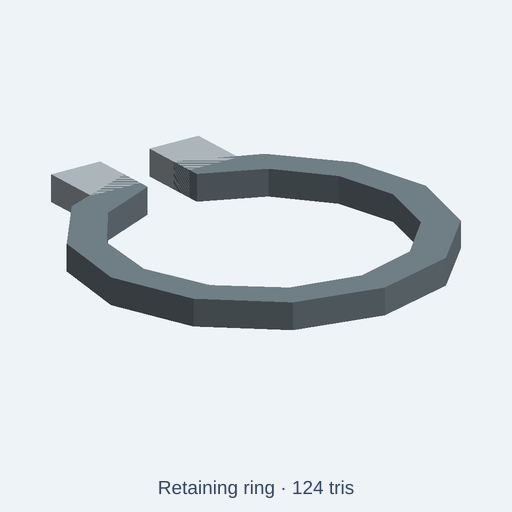
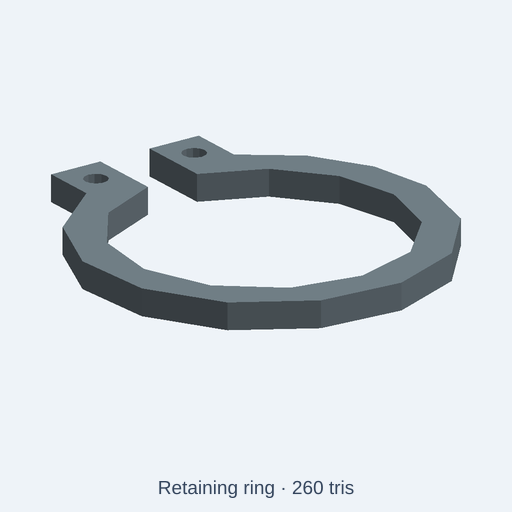
fix(catalog): connect retaining ring ears and drill plier holes (#1373)

diff --git a/tests/integration/catalog/retainingRingFidelity.test.ts b/tests/integration/catalog/retainingRingFidelity.test.ts
@@ -1,0 +1,109 @@
+// SPDX-License-Identifier: MIT
+// Count actual radial spokes and verify each joins the hub and rim.
+// Three centered diametral bars are six spokes, not three.
+import { beforeAll, describe, expect, it } from 'vitest';
+import { readFileSync } from 'node:fs';
+import { resolve } from 'node:path';
+import { NodeIO } from '@gltf-transform/core';
+import { initOcct } from '../../../src/kernel/backends/occt/occtBackend';
+import { buildCatalogAssetWithGlb } from '../../../src/agent/catalog/buildCatalog';
+import { runAndExport } from '../../../src/agent/script-runtime/export';
+
+type V = [number, number, number];
+type Tri = [V, V, V];
+const root = resolve(import.meta.dirname, '../../..');
+const sourcePath = 'catalog/kits/standard-components/retaining-ring.kcad.ts';
+const sub = (a: V, b: V): V => [a[0]-b[0], a[1]-b[1], a[2]-b[2]];
+const dot = (a: V, b: V) => a[0]*b[0]+a[1]*b[1]+a[2]*b[2];
+const cross = (a: V, b: V): V => [a[1]*b[2]-a[2]*b[1], a[2]*b[0]-a[0]*b[2], a[0]*b[1]-a[1]*b[0]];
+function rayHits(tris: Tri[], start: V, direction: V): boolean {
+  return tris.some(tri => {
+    const edge1=sub(tri[1],tri[0]), edge2=sub(tri[2],tri[0]);
+    const p=cross(direction,edge2), determinant=dot(edge1,p);
+    if(Math.abs(determinant)<1e-9)return false;
+    const t=sub(start,tri[0]), u=dot(t,p)/determinant, q=cross(t,edge1);
+    const v=dot(direction,q)/determinant, distance=dot(edge2,q)/determinant;
+    return u>=-1e-7&&v>=-1e-7&&u+v<=1+1e-7&&distance>1e-6&&distance<200;
+  });
+}
+async function readMeshes(glb: Uint8Array, scale: number): Promise<Map<string,Tri[]>> {
+  // Low-poly positions are authored millimetres before scene-axis conversion.
+  const doc=await new NodeIO().readBinary(glb), parts=new Map<string,Tri[]>();
+  for(const node of doc.getRoot().listNodes()) {
+    const mesh=node.getMesh(); if(!mesh)continue;
+    const tris:Tri[]=[];
+    for(const primitive of mesh.listPrimitives()) {
+      const pos=primitive.getAttribute('POSITION')!, indices=primitive.getIndices();
+      const count=indices?indices.getCount():pos.getCount();
+      for(let i=0;i<count;i+=3)tris.push([0,1,2].map(k=>
+        pos.getElement(indices?indices.getScalar(i+k):i+k,[]).map(v=>v/scale) as V
+      ) as Tri);
+    }
+    parts.set(node.getName(),tris);
+  }
+  return parts;
+}
+function components(tris: Tri[]): number {
+  const parent=new Map<string,string>();
+  const find=(key:string):string=>{const p=parent.get(key)!;if(p===key)return key;const r=find(p);parent.set(key,r);return r;};
+  for(const tri of tris) {
+    const keys=tri.map(v=>v.map(x=>x.toFixed(4)).join(','));
+    for(const key of keys)if(!parent.has(key))parent.set(key,key);
+    for(const key of keys.slice(1))parent.set(find(key),find(keys[0]));
+  }
+  return new Set([...parent.keys()].map(find)).size;
+}
+function faceHit(tris:Tri[], x:number, y:number):boolean {
+  return rayHits(tris,[x,y,-3],[0,0,1]);
+}
+function verify(parts:Map<string,Tri[]>) {
+  expect([...parts.keys()]).toEqual(['retaining-ring-body']);
+  const body=parts.get('retaining-ring-body')!;
+  expect(components(body),'retaining ring and its plier ears are one connected spring body').toBe(1);
+  // Both plier holes are actual voids through the full thickness.
+  for(const x of [-6,6]) {
+    expect(faceHit(body,x,20.5),`plier bore at X=${x}`).toBe(false);
+    for(const dx of [-2.1,2.1])expect(faceHit(body,x+dx,20.5),`material around plier bore at X=${x+dx}`).toBe(true);
+    expect(faceHit(body,x,23),`solid ear shoulder at X=${x}`).toBe(true);
+  }
+  // Open slit, intact back band and central shaft aperture.
+  expect(faceHit(body,0,19),'gap between ears remains open').toBe(false);
+  expect(faceHit(body,0,-18),'retaining arc remains solid').toBe(true);
+  expect(faceHit(body,0,0),'central shaft opening remains clear').toBe(false);
+  const bb=body.flat();const xs=bb.map(v=>v[0]),ys=bb.map(v=>v[1]),zs=bb.map(v=>v[2]);
+  expect(Math.max(...xs)-Math.min(...xs),'ring width').toBeGreaterThan(39);
+  expect(Math.max(...ys)-Math.min(...ys),'ring length incl ears').toBeGreaterThan(43);
+  expect(Math.min(...zs)).toBeCloseTo(0,4);
+  expect(Math.max(...zs)).toBeCloseTo(3,4);
+}
+beforeAll(async()=>{await initOcct();},30000);
+describe('retaining-ring integral ears and actual plier holes',()=>{
+ for(const [size,scale] of [['standard',1],['compact',0.75],['large',1.25]] as const) {
+  it(`${size}: one continuous ring, both plier holes through, clear gap`,async()=>{
+   const source=readFileSync(resolve(root,sourcePath),'utf8');
+   const built=await buildCatalogAssetWithGlb(root,sourcePath);
+   const code=source.replace("param('size', 'standard'",`param('size', '${size}'`);
+   const exported=size==='standard'?{bytes:built.glb,diagnostics:[]}:await runAndExport({
+    code,fileName:'retaining-ring.kcad.ts',scriptDir:resolve(root,'catalog/kits/standard-components'),format:'glb',
+    options:{format:'glb',style:'lowpoly',lowpoly:{maxTriangles:built.asset.triangleBudget}}
+   });
+   expect(exported.diagnostics.filter(d=>d.severity==='error')).toEqual([]);
+   verify(await readMeshes(exported.bytes,scale));
+   expect(built.asset.description).toMatch(/one connected spring body/i);
+   expect(built.asset.description).toMatch(/two integral plier ears with real through-holes/i);
+   expect(built.asset.description).toMatch(/not manufacturer-grade CAD/i);
+   expect(built.asset.stats.triangles).toBeLessThanOrEqual(built.asset.triangleBudget);
+   expect(built.asset.stats.minUpM).toBeCloseTo(0,6);
+  },60000);
+ }
+ it('negative control: original ring exports but has detached, undrilled ears',async()=>{
+  const source=readFileSync(resolve(root,'docs/quality/evidence/retaining-ring-20261113/original-source.kcad.ts'),'utf8');
+  const exported=await runAndExport({code:source,fileName:'original-ring.kcad.ts',scriptDir:resolve(root,'catalog/kits/standard-components'),format:'glb',options:{format:'glb',style:'lowpoly',lowpoly:{maxTriangles:300}}});
+  expect(exported.diagnostics.filter(d=>d.severity==='error')).toEqual([]);
+  const parts=await readMeshes(exported.bytes,1);
+  expect(parts.size).toBe(3);
+  expect(faceHit([...parts.values()].flat(),-6,20.5)).toBe(true);
+  expect(faceHit([...parts.values()].flat(),6,20.5)).toBe(true);
+  expect(()=>verify(parts)).toThrow();
+ },60000);
+});

diff --git a/catalog/kits/standard-components/retaining-ring.kcad.ts b/catalog/kits/standard-components/retaining-ring.kcad.ts
@@ -1,9 +1,9 @@
-// Distinctive geometry: Open retaining ring profile with two small installation ears
+// Connected open C-type retaining ring with real plier holes in both integral ears; illustrative only.
 meta({
   name: 'retaining-ring',
   license: 'CC0-1.0',
   title: 'Retaining ring',
-  description: 'Open retaining ring profile with two small installation ears Knobs: model size, stainless steel, spring steel.',
+  description: 'Illustrative CC0 C-type external retaining ring: one connected spring body, open slit and two integral plier ears with real through-holes. Not manufacturer-grade CAD: nominal groove fit, edge radii, spring properties, tolerances and DIN 471 compliance are not verified. Controls change only model size and whole-piece appearance color.',
   tags: ['retaining ring', 'circlip', 'shaft retainer', 'hardware'],
   kit: 'standard-components',
   category: 'attachment',
@@ -13,12 +13,11 @@ meta({
 });
 
 const size = param('size', 'standard', { choices: ['compact', 'standard', 'large'], label: 'Model size' });
-const stainless = param('stainless', '#b8c1c6', { label: 'Stainless steel' });
-const springSteel = param('springSteel', '#78868e', { label: 'Spring steel' });
+const springSteel = param('springSteel', '#78868e', { label: 'Metal appearance color' });
 presets({
-  dark: { stainless: '#7d8a91', springSteel: '#4c585e' },
-  brass: { stainless: '#b38b52', springSteel: '#75838a' },
-  weathered: { stainless: '#8b8275', springSteel: '#5b5550' }
+  dark: { springSteel: '#4c585e' },
+  brass: { springSteel: '#75838a' },
+  weathered: { springSteel: '#5b5550' }
 });
 
 const s = size.value === 'compact' ? 0.75 : size.value === 'large' ? 1.25 : 1;
@@ -26,7 +25,11 @@ const block = (x: number, y: number, z: number, w: number, d: number, h: number)
 const a = assembly('retaining-ring');
 let ring=cylinder(3*s,20*s,16).subtract(cylinder(5*s,16*s,16).translate(0,0,-s));
 ring=ring.subtract(block(-3*s,15*s,-s,6*s,10*s,5*s));
-a.part('ring',ring.color(springSteel));
-a.part('ear-left',block(-9*s,17*s,0,6*s,7*s,3*s).color(stainless));
-a.part('ear-right',block(3*s,17*s,0,6*s,7*s,3*s).color(stainless));
+// These integral ears are fused to the spring ring, not misleading loose assembly bodies.
+const leftEar = block(-9*s,17*s,0,6*s,7*s,3*s);
+const rightEar = block(3*s,17*s,0,6*s,7*s,3*s);
+ring = ring.union(leftEar, rightEar);
+// Genuine through-holes for plier tips, including 1 mm axial runout.
+for (const x of [-6, 6]) ring = ring.subtract(cylinder(5*s,1.3*s,8).translate(x*s,20.5*s,-s));
+a.part('retaining-ring-body', ring.color(springSteel));
 return a.model();

diff --git a/docs/quality/evidence/retaining-ring-20261113/original-source.kcad.ts b/docs/quality/evidence/retaining-ring-20261113/original-source.kcad.ts
@@ -1,0 +1,32 @@
+// Distinctive geometry: Open retaining ring profile with two small installation ears
+meta({
+  name: 'retaining-ring',
+  license: 'CC0-1.0',
+  title: 'Retaining ring',
+  description: 'Open retaining ring profile with two small installation ears Knobs: model size, stainless steel, spring steel.',
+  tags: ['retaining ring', 'circlip', 'shaft retainer', 'hardware'],
+  kit: 'standard-components',
+  category: 'attachment',
+  origin: 'base',
+  compat: ['mechanical', 'industrial', 'workshop', 'assembly'],
+  triangleBudget: 300,
+});
+
+const size = param('size', 'standard', { choices: ['compact', 'standard', 'large'], label: 'Model size' });
+const stainless = param('stainless', '#b8c1c6', { label: 'Stainless steel' });
+const springSteel = param('springSteel', '#78868e', { label: 'Spring steel' });
+presets({
+  dark: { stainless: '#7d8a91', springSteel: '#4c585e' },
+  brass: { stainless: '#b38b52', springSteel: '#75838a' },
+  weathered: { stainless: '#8b8275', springSteel: '#5b5550' }
+});
+
+const s = size.value === 'compact' ? 0.75 : size.value === 'large' ? 1.25 : 1;
+const block = (x: number, y: number, z: number, w: number, d: number, h: number) => box(w, d, h).translate(x, y, z);
+const a = assembly('retaining-ring');
+let ring=cylinder(3*s,20*s,16).subtract(cylinder(5*s,16*s,16).translate(0,0,-s));
+ring=ring.subtract(block(-3*s,15*s,-s,6*s,10*s,5*s));
+a.part('ring',ring.color(springSteel));
+a.part('ear-left',block(-9*s,17*s,0,6*s,7*s,3*s).color(stainless));
+a.part('ear-right',block(3*s,17*s,0,6*s,7*s,3*s).color(stainless));
+return a.model();

diff --git a/docs/quality/retaining-ring-2026-11-13.md b/docs/quality/retaining-ring-2026-11-13.md
@@ -1,0 +1,41 @@
+# Retaining ring: integral ears and through-holes
+
+November 13, 2026. This repairs the actual retaining-ring geometry of an **illustrative CC0 scene asset**. It does not certify a DIN 471 spring clip, fit into a manufacturer groove, spring force, fatigue, load, metal hardness or tolerances.
+
+## Before
+
+The original source creates an open C arc and two **separate, solid box-shaped ears** named `ear-left` and `ear-right`. Those ears have no plier holes. The old preview shows visually adjacent tabs but does not prove a one-piece spring ring. Three detached CAD bodies cannot represent the manufactured single-piece stamped clip claimed by the assembly title and the installation-ear description.
+
+## After
+
+The source fuses the C ring and two ears into **one connected solid**. It subtracts real **Ø2.6 mm** through-holes at the integral ear tips, with clearance beyond both faces. The open gap remains and the back retaining arc is intact. The nominal thickness remains 3 mm. The geometry remains intentionally polygonal (low-poly CC0, 260 triangles under the original 300-triangle budget).
+
+A one-piece clip has one meaningful metal appearance color. We retain `springSteel` and the `size` parameter with the three compact/standard/large choices. We remove the previous `stainless` *ear color* knob and its matching preset entries because after the Boolean union those color settings became inert. That parameter removal is explicit and intentional; saved appearance settings using `stainless` no longer affect this asset. Neither color selects an engineering steel grade.
+
+![Actual native before/after isometric/top/front geometry](evidence/retaining-ring-20261113/before-after.png)
+
+[Actual six-second top-view comparison](evidence/retaining-ring-20261113/native-comparison.mp4) illustrates the newly drilled tips. Both images are OCCT-to-GLB software renders, **not** a browser/WebGL or mechanical spring acceptance. The [unmodified original source](evidence/retaining-ring-20261113/original-source.kcad.ts) is retained as a failing negative control.
+
+## Tests and limits
+
+`tests/integration/catalog/retainingRingFidelity.test.ts` checks all three scaling presets, then independently re-evaluates the exact original source. Its mesh ray tests verify:
+
+- Exactly **one connected spring body**, not three detached pieces.
+- Both nominal hole centers are empty through thickness; adjacent ear material is present as positive controls.
+- The open slit is still clear, the rear retaining arc remains solid and the shaft interior is open.
+- Positive bounds around the ring and ears and nominal **3 mm** axial thickness.
+- Original source exports normally but fails the expected one-body/two-hole contract.
+
+**8/8 local focused tests pass:** four geometry cases (three presets plus negative control), four existing asset-module integration cases. Targeted ESLint passes. The 2,402 authored catalog index entries retain matching source hashes. Normal exact-head CI including `catalog-index` remains required before merge. The downstream published source and preview must be rechecked after marketing deployment; local PNG or source evaluation does not prove production acceptance.
+
+```sh
+NODE_OPTIONS=--max-old-space-size=2048 node node_modules/vitest/vitest.mjs run \
+  tests/integration/catalog/retainingRingFidelity.test.ts \
+  tests/integration/catalog/assetModule.test.ts \
+  --maxWorkers=1 --no-file-parallelism
+node node_modules/eslint/bin/eslint.js \
+  tests/integration/catalog/retainingRingFidelity.test.ts \
+  catalog/kits/standard-components/retaining-ring.kcad.ts
+```
+
+Node 24.22.2, reused dependencies, one worker, 2 GiB heap; fresh isolated worktree from `develop` `88c009e92ef6df0e5c9a3fb486599dc441c5d3f2`. No user models, private Studio code, vendor CAD or other active PR modified.
